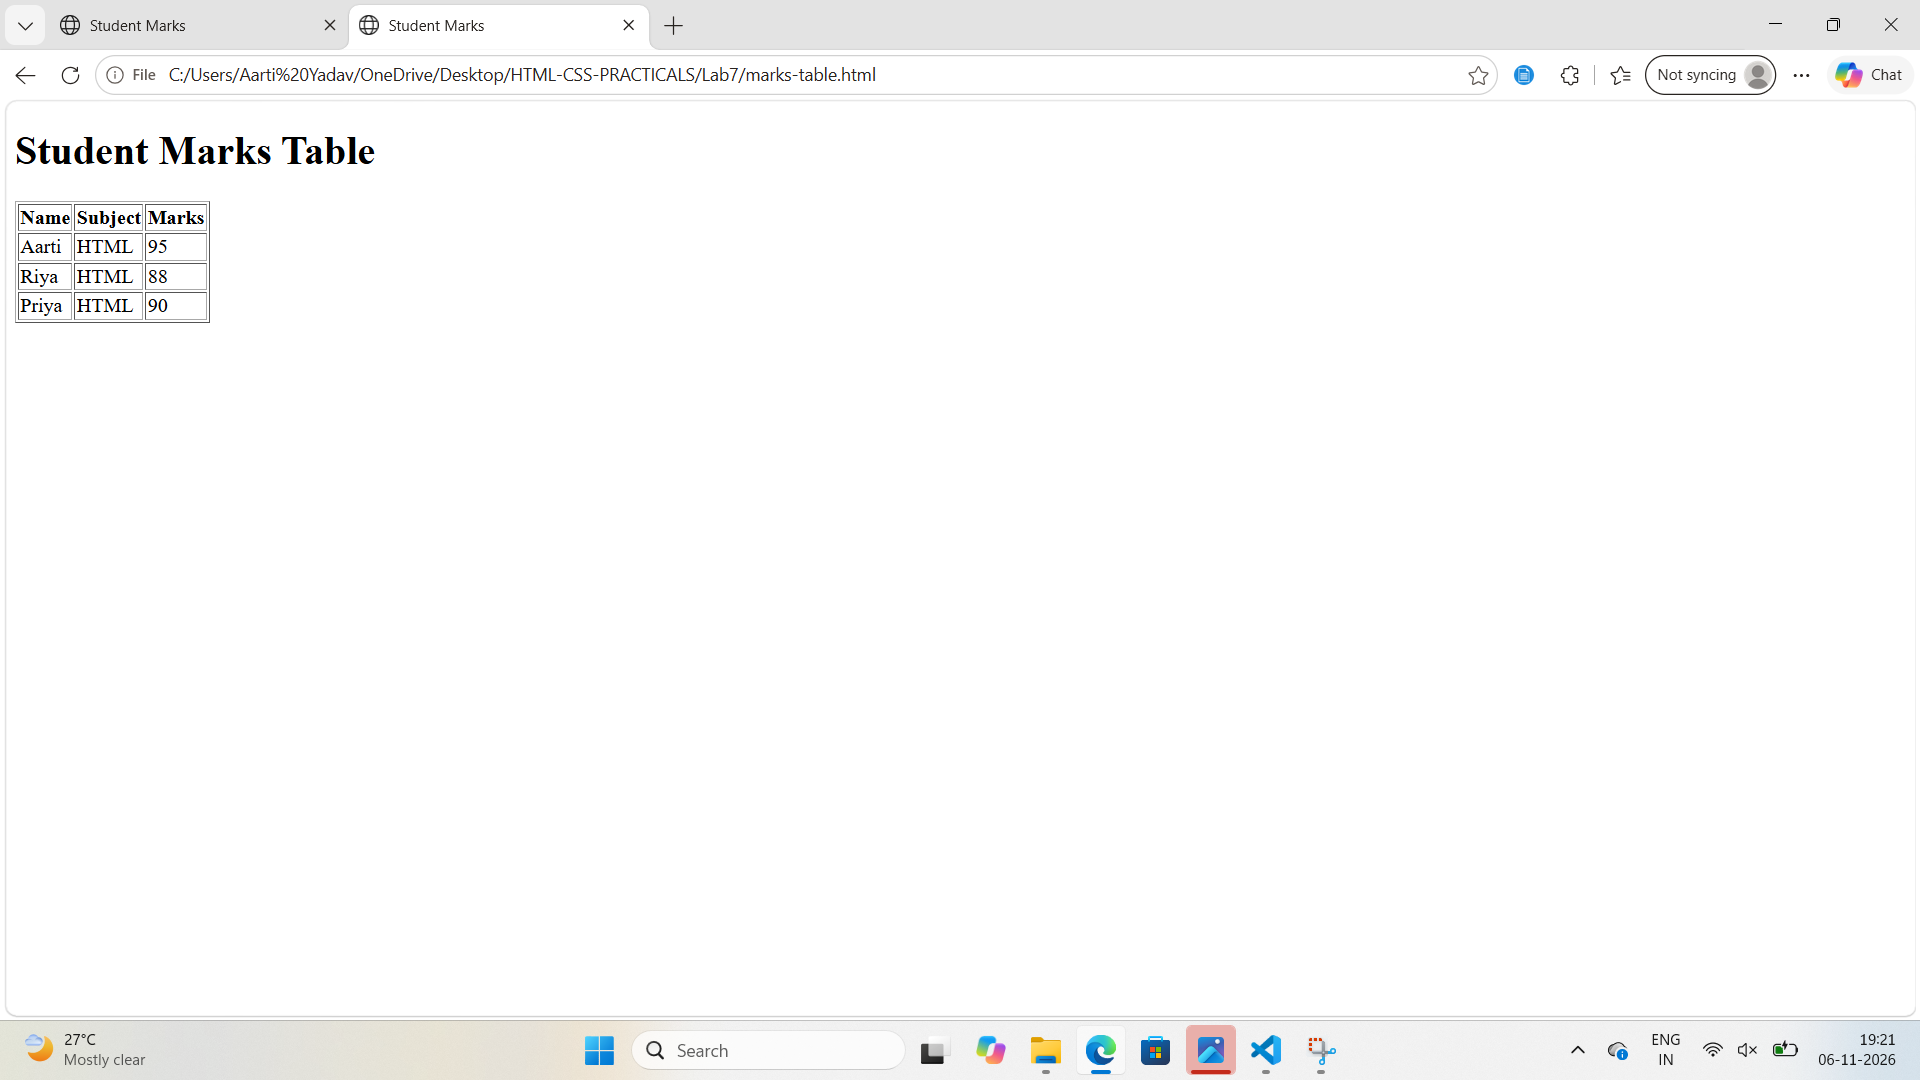
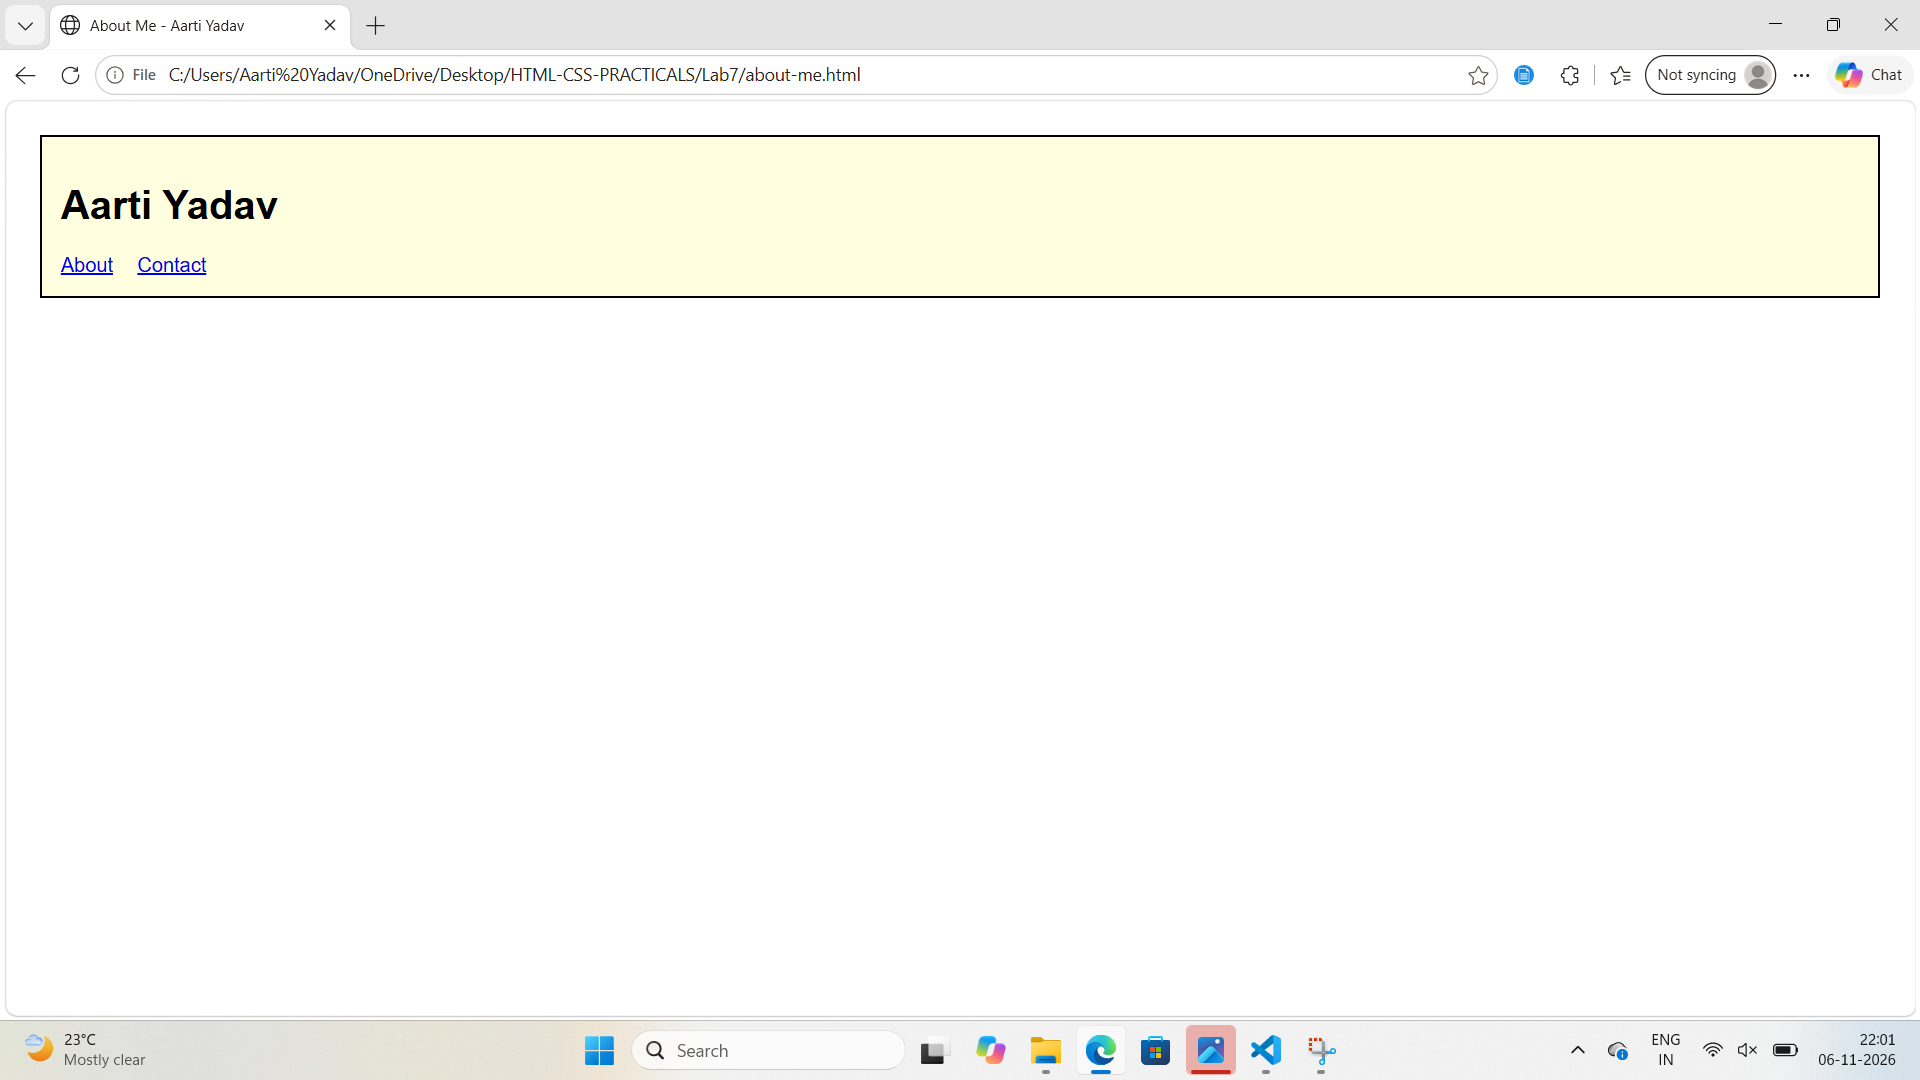
Lab7 complete - About Me Page

Changed region(s): [[0.0, 0.1222, 1.0, 0.3056], [0.0, 0.0, 0.3438, 0.0611], [0.375, 0.0611, 0.4688, 0.0917]]

diff --git a/Lab7/about-me.html b/Lab7/about-me.html
@@ -1,0 +1,48 @@
+<!-- Name: Aarti Yadav, Roll No: 2410303005, Assignment: 7 -->
+<!DOCTYPE html>
+<html>
+<head>
+    <title>About Me - Aarti Yadav</title>
+    <style>
+        body {
+            font-family: Arial, sans-serif;
+            padding: 20px;
+        }
+        header {
+            background-color: lightyellow;
+            padding: 15px;
+            border: 2px solid black;
+        }
+        nav a {
+            margin-right: 15px;
+        }
+        section {
+            margin-top: 20px;
+        }
+        footer {
+            margin-top: 20px;
+            background-color: lightgrey;
+            padding: 15px;
+            border: 2px solid black;
+        }
+    </style>
+</head>
+<body>
+    <header>
+        <h1>Aarti Yadav</h1>
+        <nav>
+            <a href="#about">About</a>
+            <a href="#contact">Contact</a>
+        </nav>
+    </header>
+    <main>
+        <section id="about">
+            <h2>About me</h2>
+            <p>My name is Aarti Yadav. I am a BCA student. I am learning HTML and CSS and I like to create simple web pages.</p>
+        </section>
+    </main>
+    <footer id="contact">
+        <p>Contact me at: <a href="mailto:aartiyadav5796@gmail.com">aartiyadav5796@gmail.com</a></p>
+    </footer>
+</body>
+</html>

diff --git a/Lab7/README.md b/Lab7/README.md
@@ -1,16 +1,16 @@
-# Lab 7 - Tables in HTML
+# Lab 7 - About Me Page
 
-## Task 1 - Student Marks Table
-- File: marks-table.html
-- Used table tag to show student marks.
+## Task 1 - Header and Nav
+- File: about-me.html
+- Header with h1 name and nav with About to #about and Contact to #contact, empty main and footer.
 - Screenshot: images/task1.png
 
-## Task 2 - Class Time Table
-- File: timetable.html
-- Used table tag to show class timetable.
+## Task 2 - About Section
+- File: about-me.html
+- Section inside main with id about, h2 About me and one paragraph about myself.
 - Screenshot: images/task2.png
 
-## Task 3 - Product Price Table
-- File: product-table.html
-- Used table tag to show product price list.
+## Task 3 - Contact Footer
+- File: about-me.html
+- Footer with id contact, paragraph with mailto email link.
 - Screenshot: images/task3.png
